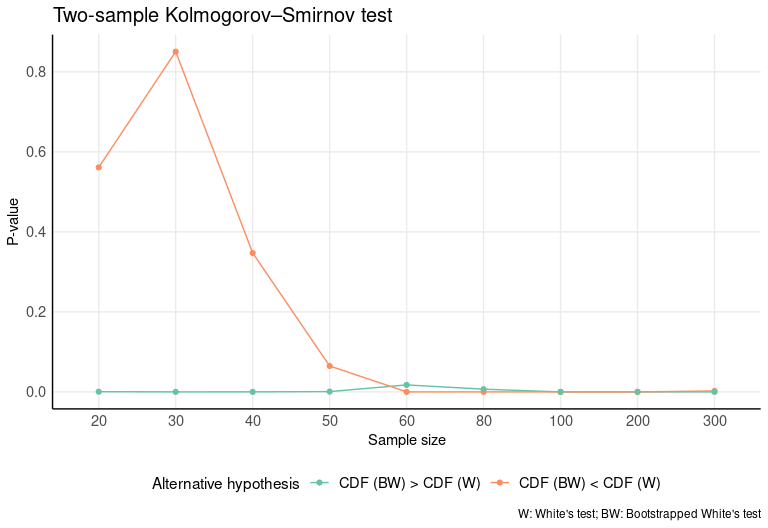
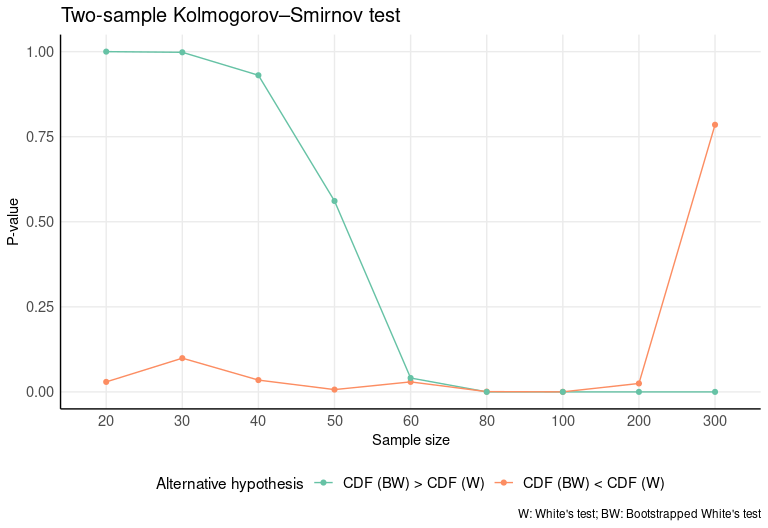
fix bootstrap error definition2

diff --git a/README.md b/README.md
@@ -96,8 +96,8 @@ two-sample Kolmogorov–Smirnov test is run. In this case, we’ll test
 whether one distribution stochastically dominates another, so the test
 will be run for both alternative sides (*CDF (BW) \> CDF (W)* and *CDF
 (BW) \< CDF (W)*). We see from the results that *CDF (BW)* statistically
-outperforms *CDF (W)* for samples \< 50. No differences are appreciated
-with samples greater than or equal to 50.
+outperforms *CDF (W)* for samples \< 60. No differences are appreciated
+with samples greater than or equal to 60.
 
 ![](man/figures/README-unnamed-chunk-7-1.png)<!-- -->
 
